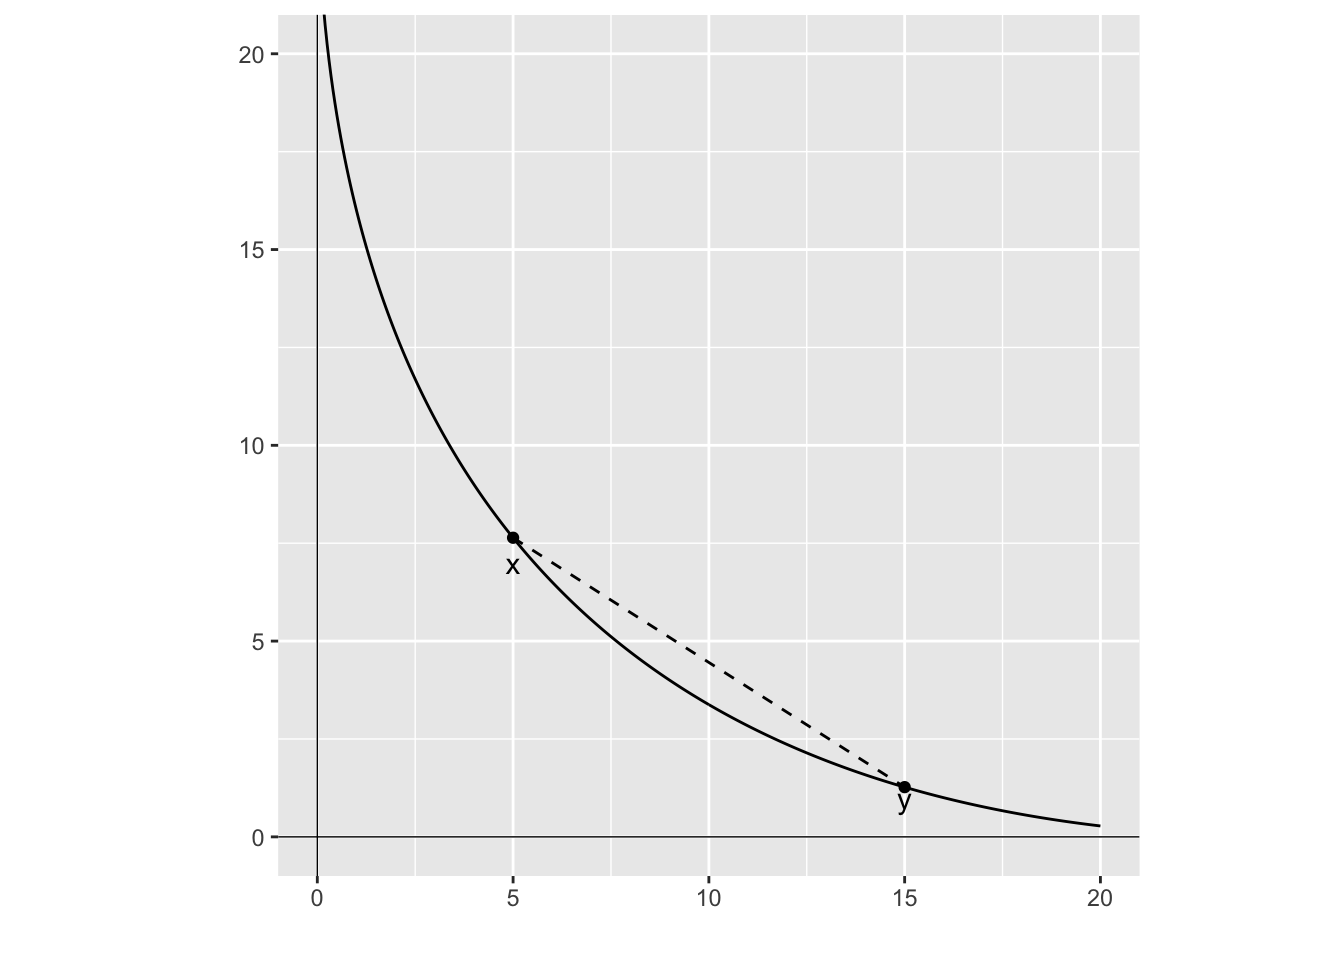
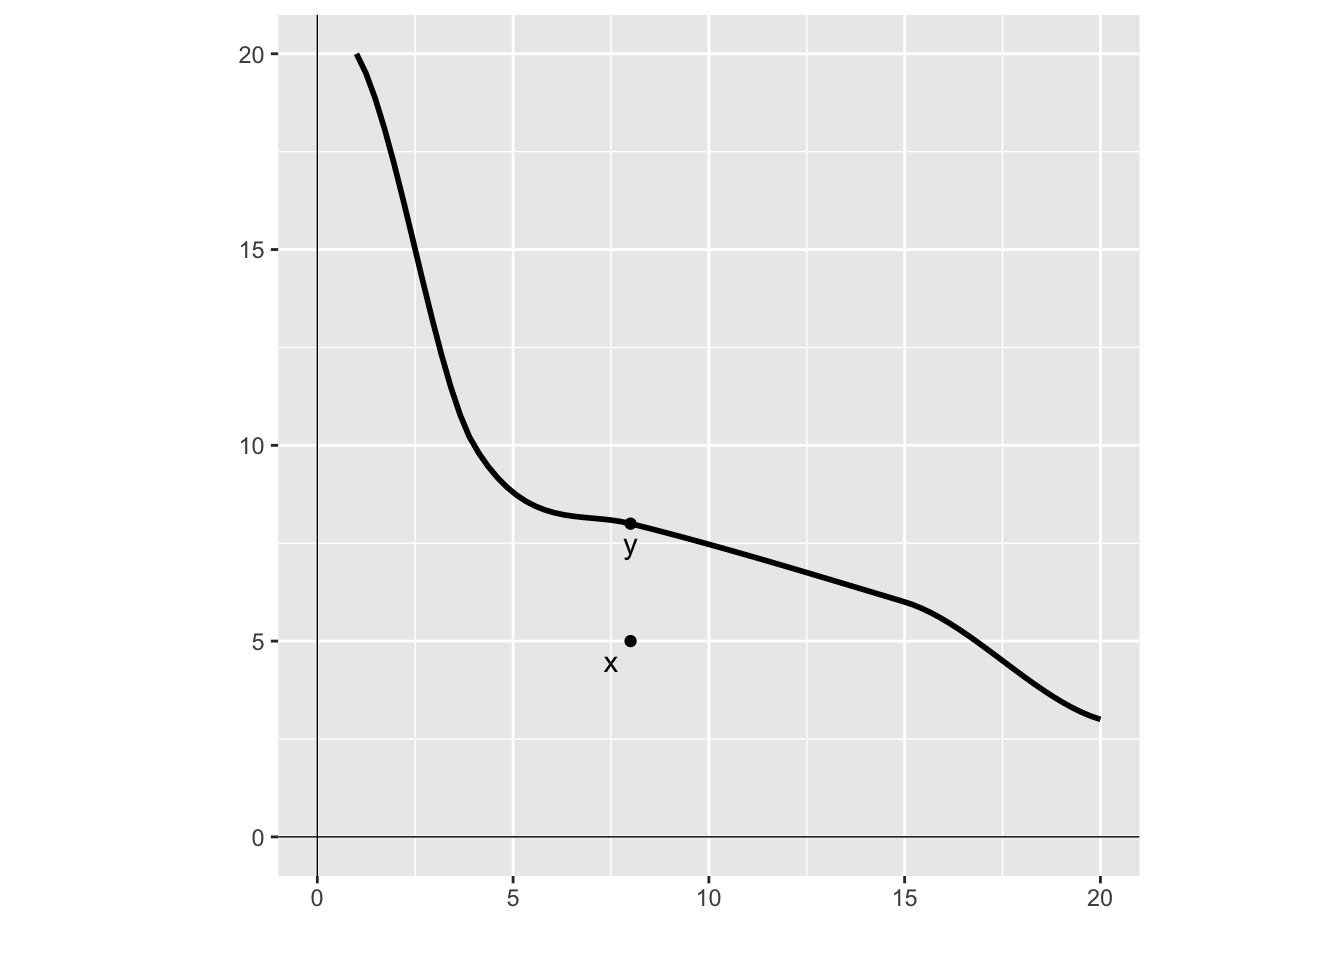
Further axiom commits

diff --git a/_book/risk-and-uncertainty/axioms-for-expected-utility-theory.html b/_book/risk-and-uncertainty/axioms-for-expected-utility-theory.html
@@ -187,7 +187,7 @@ code span.wa { color: #60a0b0; font-weight: bold; font-style: italic; } /* Warni
  <span class="menu-text"></span></a>
   </li>  
   <li class="nav-item compact">
-    <a class="nav-link" href="https://github.com/jasonacollins/behaviouraleconomics"><i class="bi bi-github" role="img">
+    <a class="nav-link" href="https://github.com/jasonacollins/behaviouraleconomics"><i class="bi bi-github" role="img" aria-label="Source Code">
 </i> 
  <span class="menu-text"></span></a>
   </li>  
@@ -786,7 +786,7 @@ code span.wa { color: #60a0b0; font-weight: bold; font-style: italic; } /* Warni
 <li>Convexity</li>
 <li>Diminishing marginal utility</li>
 </ul>
-<p>I provide further detail on several of these below.</p>
+<p>I provide further detail on these.</p>
 <section id="reference-point-of-zero-wealth" class="level3" data-number="7.3.1">
 <h3 data-number="7.3.1" class="anchored" data-anchor-id="reference-point-of-zero-wealth"><span class="header-section-number">7.3.1</span> Reference point of zero wealth</h3>
 <p>When people are considering whether to accept or gamble or compare options, they do not decide from a blank slate. They come with an existing set of resources (wealth), and that wealth may affect their decision. A gamble may be more attractive if someone has more or less wealth.</p>
@@ -843,6 +843,46 @@ code span.wa { color: #60a0b0; font-weight: bold; font-style: italic; } /* Warni
 <h3 data-number="7.3.3" class="anchored" data-anchor-id="monotonicity"><span class="header-section-number">7.3.3</span> Monotonicity</h3>
 <p>Preferences are monotone if more of any good in the bundle makes the agent strictly better off. Non-satiation is implied by monotonicity, but not the other way around.</p>
 <p>Monotonicity implies downward-sloping indifference curves. This is because any increase of a good in your bundle would take you to a higher indifference curve. A horizontal indifference curve is not feasible as moving along that indifference curve implies more of the good, but that is not possible as monotonicity implies you are better off and hence on a higher indifference curve.</p>
+<div class="cell">
+<details>
+<summary>Code</summary>
+<div class="sourceCode cell-code" id="cb4"><pre class="sourceCode r code-with-copy"><code class="sourceCode r"><span id="cb4-1"><a href="#cb4-1" aria-hidden="true" tabindex="-1"></a><span class="do">## Load ggplot2</span></span>
+<span id="cb4-2"><a href="#cb4-2" aria-hidden="true" tabindex="-1"></a><span class="fu">library</span>(ggplot2)</span>
+<span id="cb4-3"><a href="#cb4-3" aria-hidden="true" tabindex="-1"></a></span>
+<span id="cb4-4"><a href="#cb4-4" aria-hidden="true" tabindex="-1"></a><span class="do">## Create a data frame with 2 columns and 4 rows</span></span>
+<span id="cb4-5"><a href="#cb4-5" aria-hidden="true" tabindex="-1"></a>df <span class="ot">&lt;-</span> <span class="fu">data.frame</span>(</span>
+<span id="cb4-6"><a href="#cb4-6" aria-hidden="true" tabindex="-1"></a>  <span class="at">x =</span> <span class="fu">c</span>(<span class="dv">1</span>, <span class="dv">4</span>, <span class="dv">8</span>, <span class="dv">15</span>, <span class="dv">20</span>),</span>
+<span id="cb4-7"><a href="#cb4-7" aria-hidden="true" tabindex="-1"></a>  <span class="at">y =</span> <span class="fu">c</span>(<span class="dv">20</span>, <span class="dv">10</span>, <span class="dv">8</span>, <span class="dv">6</span>, <span class="dv">3</span>)</span>
+<span id="cb4-8"><a href="#cb4-8" aria-hidden="true" tabindex="-1"></a>)</span>
+<span id="cb4-9"><a href="#cb4-9" aria-hidden="true" tabindex="-1"></a></span>
+<span id="cb4-10"><a href="#cb4-10" aria-hidden="true" tabindex="-1"></a><span class="co"># Plot a smooth line through the points</span></span>
+<span id="cb4-11"><a href="#cb4-11" aria-hidden="true" tabindex="-1"></a>  <span class="fu">ggplot</span>()<span class="sc">+</span></span>
+<span id="cb4-12"><a href="#cb4-12" aria-hidden="true" tabindex="-1"></a>    <span class="fu">geom_smooth</span>(<span class="at">data =</span> df, <span class="at">mapping =</span> <span class="fu">aes</span>(x, y), <span class="at">color =</span> <span class="st">"black"</span>, <span class="at">na.rm =</span> <span class="cn">TRUE</span>)<span class="sc">+</span></span>
+<span id="cb4-13"><a href="#cb4-13" aria-hidden="true" tabindex="-1"></a></span>
+<span id="cb4-14"><a href="#cb4-14" aria-hidden="true" tabindex="-1"></a>    <span class="co"># Add points and labels</span></span>
+<span id="cb4-15"><a href="#cb4-15" aria-hidden="true" tabindex="-1"></a>    <span class="fu">geom_point</span>(<span class="fu">aes</span>(<span class="at">x=</span><span class="dv">8</span>, <span class="at">y=</span><span class="dv">5</span>)) <span class="sc">+</span></span>
+<span id="cb4-16"><a href="#cb4-16" aria-hidden="true" tabindex="-1"></a>    <span class="fu">geom_text</span>(<span class="fu">aes</span>(<span class="at">x=</span><span class="fl">7.5</span>, <span class="at">y=</span><span class="fl">4.5</span>, <span class="at">label=</span><span class="st">"x"</span>))<span class="sc">+</span></span>
+<span id="cb4-17"><a href="#cb4-17" aria-hidden="true" tabindex="-1"></a>    <span class="fu">geom_point</span>(<span class="fu">aes</span>(<span class="at">x=</span><span class="dv">8</span>, <span class="at">y=</span><span class="dv">8</span>)) <span class="sc">+</span></span>
+<span id="cb4-18"><a href="#cb4-18" aria-hidden="true" tabindex="-1"></a>    <span class="fu">geom_text</span>(<span class="fu">aes</span>(<span class="at">x=</span><span class="dv">8</span>, <span class="at">y=</span><span class="fl">7.5</span>, <span class="at">label=</span><span class="st">"y"</span>))<span class="sc">+</span></span>
+<span id="cb4-19"><a href="#cb4-19" aria-hidden="true" tabindex="-1"></a></span>
+<span id="cb4-20"><a href="#cb4-20" aria-hidden="true" tabindex="-1"></a>    <span class="co"># Add vertical and horizontal axis lines</span></span>
+<span id="cb4-21"><a href="#cb4-21" aria-hidden="true" tabindex="-1"></a>    <span class="fu">geom_vline</span>(<span class="at">xintercept =</span> <span class="dv">0</span>, <span class="at">linewidth=</span><span class="fl">0.25</span>)<span class="sc">+</span> </span>
+<span id="cb4-22"><a href="#cb4-22" aria-hidden="true" tabindex="-1"></a>    <span class="fu">geom_hline</span>(<span class="at">yintercept =</span> <span class="dv">0</span>, <span class="at">linewidth=</span><span class="fl">0.25</span>)<span class="sc">+</span></span>
+<span id="cb4-23"><a href="#cb4-23" aria-hidden="true" tabindex="-1"></a></span>
+<span id="cb4-24"><a href="#cb4-24" aria-hidden="true" tabindex="-1"></a>    <span class="co"># Remove x and y axis labels </span></span>
+<span id="cb4-25"><a href="#cb4-25" aria-hidden="true" tabindex="-1"></a>    <span class="fu">labs</span>(<span class="at">x =</span> <span class="st">""</span>, <span class="at">y =</span> <span class="st">""</span>)<span class="sc">+</span></span>
+<span id="cb4-26"><a href="#cb4-26" aria-hidden="true" tabindex="-1"></a></span>
+<span id="cb4-27"><a href="#cb4-27" aria-hidden="true" tabindex="-1"></a>    <span class="co"># Set the limits of the plot</span></span>
+<span id="cb4-28"><a href="#cb4-28" aria-hidden="true" tabindex="-1"></a>    <span class="fu">coord_fixed</span>(<span class="at">xlim =</span> <span class="fu">c</span>(<span class="dv">0</span>,<span class="dv">20</span>), <span class="at">ylim =</span> <span class="fu">c</span>(<span class="dv">0</span>,<span class="dv">20</span>))</span></code><button title="Copy to Clipboard" class="code-copy-button"><i class="bi"></i></button></pre></div>
+</details>
+<div class="cell-output-display">
+<div class="quarto-figure quarto-figure-center">
+<figure class="figure">
+<p><a href="axioms-for-expected-utility-theory_files/figure-html/unnamed-chunk-2-1.png" class="lightbox" data-gallery="quarto-lightbox-gallery-4"><img src="axioms-for-expected-utility-theory_files/figure-html/unnamed-chunk-2-1.png" class="img-fluid figure-img" width="672"></a></p>
+</figure>
+</div>
+</div>
+</div>
 </section>
 <section id="convexity" class="level3" data-number="7.3.4">
 <h3 data-number="7.3.4" class="anchored" data-anchor-id="convexity"><span class="header-section-number">7.3.4</span> Convexity</h3>
@@ -856,42 +896,42 @@ code span.wa { color: #60a0b0; font-weight: bold; font-style: italic; } /* Warni
 <div class="cell">
 <details>
 <summary>Code</summary>
-<div class="sourceCode cell-code" id="cb4"><pre class="sourceCode r code-with-copy"><code class="sourceCode r"><span id="cb4-1"><a href="#cb4-1" aria-hidden="true" tabindex="-1"></a><span class="fu">library</span>(ggplot2)</span>
-<span id="cb4-2"><a href="#cb4-2" aria-hidden="true" tabindex="-1"></a></span>
-<span id="cb4-3"><a href="#cb4-3" aria-hidden="true" tabindex="-1"></a><span class="co"># Create a data frame</span></span>
-<span id="cb4-4"><a href="#cb4-4" aria-hidden="true" tabindex="-1"></a>df <span class="ot">&lt;-</span> <span class="fu">data.frame</span>(</span>
-<span id="cb4-5"><a href="#cb4-5" aria-hidden="true" tabindex="-1"></a>  <span class="at">n =</span> <span class="fu">seq</span>(<span class="fl">0.05</span>,<span class="dv">20</span>,<span class="fl">0.05</span>),</span>
-<span id="cb4-6"><a href="#cb4-6" aria-hidden="true" tabindex="-1"></a>  <span class="at">x=</span><span class="cn">NA</span></span>
-<span id="cb4-7"><a href="#cb4-7" aria-hidden="true" tabindex="-1"></a>)</span>
-<span id="cb4-8"><a href="#cb4-8" aria-hidden="true" tabindex="-1"></a></span>
-<span id="cb4-9"><a href="#cb4-9" aria-hidden="true" tabindex="-1"></a><span class="co"># Fill column x of the data frame</span></span>
-<span id="cb4-10"><a href="#cb4-10" aria-hidden="true" tabindex="-1"></a>df<span class="sc">$</span>x <span class="ot">&lt;-</span> (<span class="dv">5</span><span class="sc">-</span>df<span class="sc">$</span>n<span class="sc">^</span><span class="fl">0.5</span>)<span class="sc">^</span><span class="dv">2</span></span>
-<span id="cb4-11"><a href="#cb4-11" aria-hidden="true" tabindex="-1"></a></span>
-<span id="cb4-12"><a href="#cb4-12" aria-hidden="true" tabindex="-1"></a><span class="co"># Plot the line and points</span></span>
-<span id="cb4-13"><a href="#cb4-13" aria-hidden="true" tabindex="-1"></a><span class="fu">ggplot</span>()<span class="sc">+</span></span>
-<span id="cb4-14"><a href="#cb4-14" aria-hidden="true" tabindex="-1"></a>  <span class="fu">geom_line</span>(<span class="at">data =</span> df, <span class="at">mapping =</span> <span class="fu">aes</span>(n, x))<span class="sc">+</span> </span>
-<span id="cb4-15"><a href="#cb4-15" aria-hidden="true" tabindex="-1"></a>  <span class="fu">geom_point</span>(<span class="fu">aes</span>(<span class="at">x=</span><span class="dv">5</span>, <span class="at">y=</span>(<span class="dv">5-5</span><span class="sc">^</span><span class="fl">0.5</span>)<span class="sc">^</span><span class="dv">2</span>)) <span class="sc">+</span></span>
-<span id="cb4-16"><a href="#cb4-16" aria-hidden="true" tabindex="-1"></a>  <span class="fu">geom_text</span>(<span class="fu">aes</span>(<span class="at">x=</span><span class="dv">5</span>, <span class="at">y=</span><span class="dv">7</span>, <span class="at">label=</span><span class="st">"x"</span>))<span class="sc">+</span></span>
-<span id="cb4-17"><a href="#cb4-17" aria-hidden="true" tabindex="-1"></a>  <span class="fu">geom_point</span>(<span class="fu">aes</span>(<span class="at">x=</span><span class="dv">15</span>, <span class="at">y=</span>(<span class="dv">5-15</span><span class="sc">^</span><span class="fl">0.5</span>)<span class="sc">^</span><span class="dv">2</span>)) <span class="sc">+</span></span>
-<span id="cb4-18"><a href="#cb4-18" aria-hidden="true" tabindex="-1"></a>  <span class="fu">geom_text</span>(<span class="fu">aes</span>(<span class="at">x=</span><span class="dv">15</span>, <span class="at">y=</span><span class="dv">1</span>, <span class="at">label=</span><span class="st">"y"</span>))<span class="sc">+</span></span>
-<span id="cb4-19"><a href="#cb4-19" aria-hidden="true" tabindex="-1"></a></span>
-<span id="cb4-20"><a href="#cb4-20" aria-hidden="true" tabindex="-1"></a>  <span class="co"># Add vertical and horizontal axis lines</span></span>
-<span id="cb4-21"><a href="#cb4-21" aria-hidden="true" tabindex="-1"></a>  <span class="fu">geom_vline</span>(<span class="at">xintercept =</span> <span class="dv">0</span>, <span class="at">linewidth=</span><span class="fl">0.25</span>)<span class="sc">+</span> </span>
-<span id="cb4-22"><a href="#cb4-22" aria-hidden="true" tabindex="-1"></a>  <span class="fu">geom_hline</span>(<span class="at">yintercept =</span> <span class="dv">0</span>, <span class="at">linewidth=</span><span class="fl">0.25</span>)<span class="sc">+</span></span>
-<span id="cb4-23"><a href="#cb4-23" aria-hidden="true" tabindex="-1"></a>  </span>
-<span id="cb4-24"><a href="#cb4-24" aria-hidden="true" tabindex="-1"></a>  <span class="co"># Add a dashed line segment between the two points</span></span>
-<span id="cb4-25"><a href="#cb4-25" aria-hidden="true" tabindex="-1"></a>  <span class="fu">geom_segment</span>(<span class="fu">aes</span>(<span class="at">x =</span> <span class="dv">5</span>, <span class="at">y =</span> (<span class="dv">5-5</span><span class="sc">^</span><span class="fl">0.5</span>)<span class="sc">^</span><span class="dv">2</span>), <span class="at">xend =</span> <span class="dv">15</span>, <span class="at">yend =</span> (<span class="dv">5-15</span><span class="sc">^</span><span class="fl">0.5</span>)<span class="sc">^</span><span class="dv">2</span>, <span class="at">linetype=</span><span class="dv">2</span>)<span class="sc">+</span></span>
-<span id="cb4-26"><a href="#cb4-26" aria-hidden="true" tabindex="-1"></a></span>
-<span id="cb4-27"><a href="#cb4-27" aria-hidden="true" tabindex="-1"></a>  <span class="co"># Remove x and y axis labels</span></span>
-<span id="cb4-28"><a href="#cb4-28" aria-hidden="true" tabindex="-1"></a>  <span class="fu">labs</span>(<span class="at">x =</span> <span class="st">""</span>, <span class="at">y =</span> <span class="st">""</span>) <span class="sc">+</span></span>
-<span id="cb4-29"><a href="#cb4-29" aria-hidden="true" tabindex="-1"></a></span>
-<span id="cb4-30"><a href="#cb4-30" aria-hidden="true" tabindex="-1"></a>  <span class="co"># Set the limits of the plot</span></span>
-<span id="cb4-31"><a href="#cb4-31" aria-hidden="true" tabindex="-1"></a>  <span class="fu">coord_fixed</span>(<span class="at">xlim =</span> <span class="fu">c</span>(<span class="dv">0</span>,<span class="dv">20</span>), <span class="at">ylim =</span> <span class="fu">c</span>(<span class="dv">0</span>,<span class="dv">20</span>))</span></code><button title="Copy to Clipboard" class="code-copy-button"><i class="bi"></i></button></pre></div>
+<div class="sourceCode cell-code" id="cb5"><pre class="sourceCode r code-with-copy"><code class="sourceCode r"><span id="cb5-1"><a href="#cb5-1" aria-hidden="true" tabindex="-1"></a><span class="fu">library</span>(ggplot2)</span>
+<span id="cb5-2"><a href="#cb5-2" aria-hidden="true" tabindex="-1"></a></span>
+<span id="cb5-3"><a href="#cb5-3" aria-hidden="true" tabindex="-1"></a><span class="co"># Create a data frame</span></span>
+<span id="cb5-4"><a href="#cb5-4" aria-hidden="true" tabindex="-1"></a>df <span class="ot">&lt;-</span> <span class="fu">data.frame</span>(</span>
+<span id="cb5-5"><a href="#cb5-5" aria-hidden="true" tabindex="-1"></a>  <span class="at">n =</span> <span class="fu">seq</span>(<span class="fl">0.05</span>,<span class="dv">20</span>,<span class="fl">0.05</span>),</span>
+<span id="cb5-6"><a href="#cb5-6" aria-hidden="true" tabindex="-1"></a>  <span class="at">x=</span><span class="cn">NA</span></span>
+<span id="cb5-7"><a href="#cb5-7" aria-hidden="true" tabindex="-1"></a>)</span>
+<span id="cb5-8"><a href="#cb5-8" aria-hidden="true" tabindex="-1"></a></span>
+<span id="cb5-9"><a href="#cb5-9" aria-hidden="true" tabindex="-1"></a><span class="co"># Fill column x of the data frame</span></span>
+<span id="cb5-10"><a href="#cb5-10" aria-hidden="true" tabindex="-1"></a>df<span class="sc">$</span>x <span class="ot">&lt;-</span> (<span class="dv">5</span><span class="sc">-</span>df<span class="sc">$</span>n<span class="sc">^</span><span class="fl">0.5</span>)<span class="sc">^</span><span class="dv">2</span></span>
+<span id="cb5-11"><a href="#cb5-11" aria-hidden="true" tabindex="-1"></a></span>
+<span id="cb5-12"><a href="#cb5-12" aria-hidden="true" tabindex="-1"></a><span class="co"># Plot the line and points</span></span>
+<span id="cb5-13"><a href="#cb5-13" aria-hidden="true" tabindex="-1"></a><span class="fu">ggplot</span>()<span class="sc">+</span></span>
+<span id="cb5-14"><a href="#cb5-14" aria-hidden="true" tabindex="-1"></a>  <span class="fu">geom_line</span>(<span class="at">data =</span> df, <span class="at">mapping =</span> <span class="fu">aes</span>(n, x))<span class="sc">+</span> </span>
+<span id="cb5-15"><a href="#cb5-15" aria-hidden="true" tabindex="-1"></a>  <span class="fu">geom_point</span>(<span class="fu">aes</span>(<span class="at">x=</span><span class="dv">5</span>, <span class="at">y=</span>(<span class="dv">5-5</span><span class="sc">^</span><span class="fl">0.5</span>)<span class="sc">^</span><span class="dv">2</span>)) <span class="sc">+</span></span>
+<span id="cb5-16"><a href="#cb5-16" aria-hidden="true" tabindex="-1"></a>  <span class="fu">geom_text</span>(<span class="fu">aes</span>(<span class="at">x=</span><span class="dv">5</span>, <span class="at">y=</span><span class="dv">7</span>, <span class="at">label=</span><span class="st">"x"</span>))<span class="sc">+</span></span>
+<span id="cb5-17"><a href="#cb5-17" aria-hidden="true" tabindex="-1"></a>  <span class="fu">geom_point</span>(<span class="fu">aes</span>(<span class="at">x=</span><span class="dv">15</span>, <span class="at">y=</span>(<span class="dv">5-15</span><span class="sc">^</span><span class="fl">0.5</span>)<span class="sc">^</span><span class="dv">2</span>)) <span class="sc">+</span></span>
+<span id="cb5-18"><a href="#cb5-18" aria-hidden="true" tabindex="-1"></a>  <span class="fu">geom_text</span>(<span class="fu">aes</span>(<span class="at">x=</span><span class="dv">15</span>, <span class="at">y=</span><span class="dv">1</span>, <span class="at">label=</span><span class="st">"y"</span>))<span class="sc">+</span></span>
+<span id="cb5-19"><a href="#cb5-19" aria-hidden="true" tabindex="-1"></a></span>
+<span id="cb5-20"><a href="#cb5-20" aria-hidden="true" tabindex="-1"></a>  <span class="co"># Add vertical and horizontal axis lines</span></span>
+<span id="cb5-21"><a href="#cb5-21" aria-hidden="true" tabindex="-1"></a>  <span class="fu">geom_vline</span>(<span class="at">xintercept =</span> <span class="dv">0</span>, <span class="at">linewidth=</span><span class="fl">0.25</span>)<span class="sc">+</span> </span>
+<span id="cb5-22"><a href="#cb5-22" aria-hidden="true" tabindex="-1"></a>  <span class="fu">geom_hline</span>(<span class="at">yintercept =</span> <span class="dv">0</span>, <span class="at">linewidth=</span><span class="fl">0.25</span>)<span class="sc">+</span></span>
+<span id="cb5-23"><a href="#cb5-23" aria-hidden="true" tabindex="-1"></a>  </span>
+<span id="cb5-24"><a href="#cb5-24" aria-hidden="true" tabindex="-1"></a>  <span class="co"># Add a dashed line segment between the two points</span></span>
+<span id="cb5-25"><a href="#cb5-25" aria-hidden="true" tabindex="-1"></a>  <span class="fu">geom_segment</span>(<span class="fu">aes</span>(<span class="at">x =</span> <span class="dv">5</span>, <span class="at">y =</span> (<span class="dv">5-5</span><span class="sc">^</span><span class="fl">0.5</span>)<span class="sc">^</span><span class="dv">2</span>), <span class="at">xend =</span> <span class="dv">15</span>, <span class="at">yend =</span> (<span class="dv">5-15</span><span class="sc">^</span><span class="fl">0.5</span>)<span class="sc">^</span><span class="dv">2</span>, <span class="at">linetype=</span><span class="dv">2</span>)<span class="sc">+</span></span>
+<span id="cb5-26"><a href="#cb5-26" aria-hidden="true" tabindex="-1"></a></span>
+<span id="cb5-27"><a href="#cb5-27" aria-hidden="true" tabindex="-1"></a>  <span class="co"># Remove x and y axis labels</span></span>
+<span id="cb5-28"><a href="#cb5-28" aria-hidden="true" tabindex="-1"></a>  <span class="fu">labs</span>(<span class="at">x =</span> <span class="st">""</span>, <span class="at">y =</span> <span class="st">""</span>) <span class="sc">+</span></span>
+<span id="cb5-29"><a href="#cb5-29" aria-hidden="true" tabindex="-1"></a></span>
+<span id="cb5-30"><a href="#cb5-30" aria-hidden="true" tabindex="-1"></a>  <span class="co"># Set the limits of the plot</span></span>
+<span id="cb5-31"><a href="#cb5-31" aria-hidden="true" tabindex="-1"></a>  <span class="fu">coord_fixed</span>(<span class="at">xlim =</span> <span class="fu">c</span>(<span class="dv">0</span>,<span class="dv">20</span>), <span class="at">ylim =</span> <span class="fu">c</span>(<span class="dv">0</span>,<span class="dv">20</span>))</span></code><button title="Copy to Clipboard" class="code-copy-button"><i class="bi"></i></button></pre></div>
 </details>
 <div class="cell-output-display">
 <div class="quarto-figure quarto-figure-center">
 <figure class="figure">
-<p><a href="axioms-for-expected-utility-theory_files/figure-html/unnamed-chunk-2-1.png" class="lightbox" data-gallery="quarto-lightbox-gallery-4"><img src="axioms-for-expected-utility-theory_files/figure-html/unnamed-chunk-2-1.png" class="img-fluid figure-img" width="672"></a></p>
+<p><a href="axioms-for-expected-utility-theory_files/figure-html/unnamed-chunk-3-1.png" class="lightbox" data-gallery="quarto-lightbox-gallery-5"><img src="axioms-for-expected-utility-theory_files/figure-html/unnamed-chunk-3-1.png" class="img-fluid figure-img" width="672"></a></p>
 </figure>
 </div>
 </div>
@@ -1090,7 +1130,7 @@ window.document.addEventListener("DOMContentLoaded", function (event) {
       </div>
   </div>
 </footer>
-<script>var lightboxQuarto = GLightbox({"descPosition":"bottom","loop":true,"closeEffect":"zoom","selector":".lightbox","openEffect":"zoom"});</script>
+<script>var lightboxQuarto = GLightbox({"selector":".lightbox","openEffect":"zoom","loop":true,"closeEffect":"zoom","descPosition":"bottom"});</script>
 
 
 
